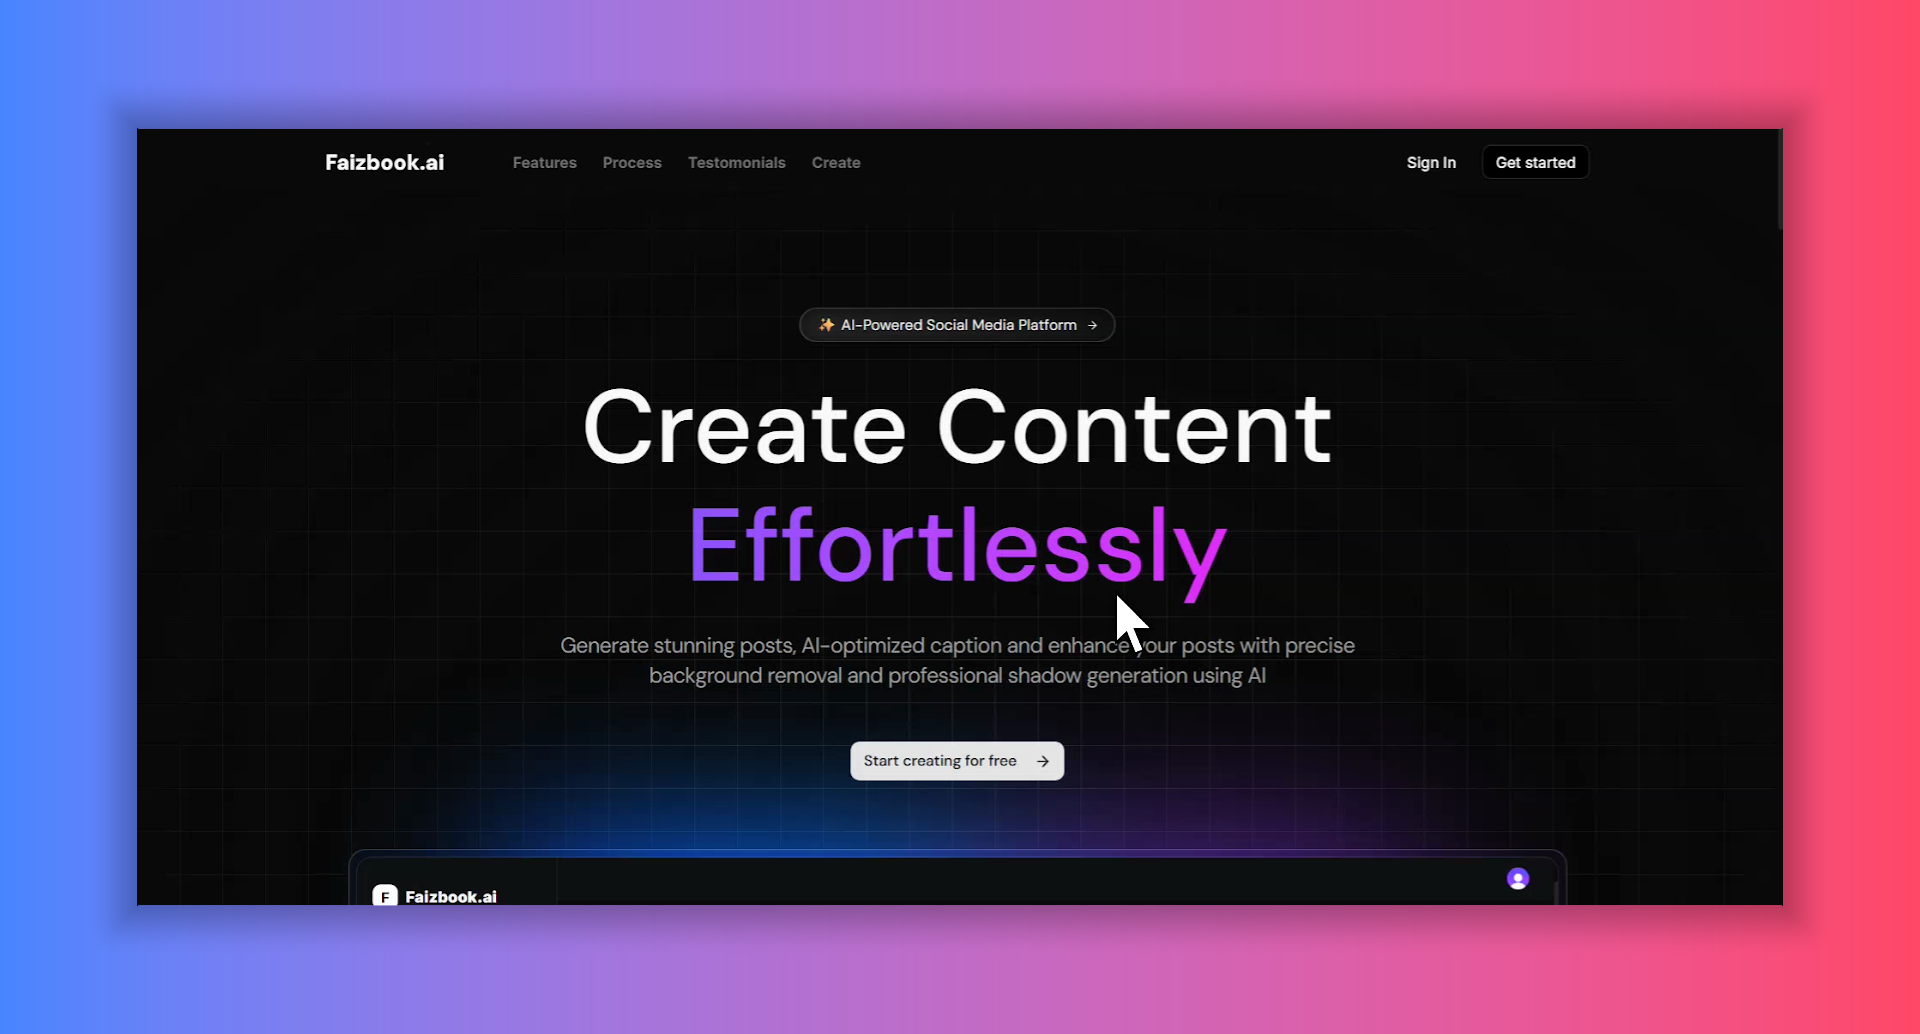
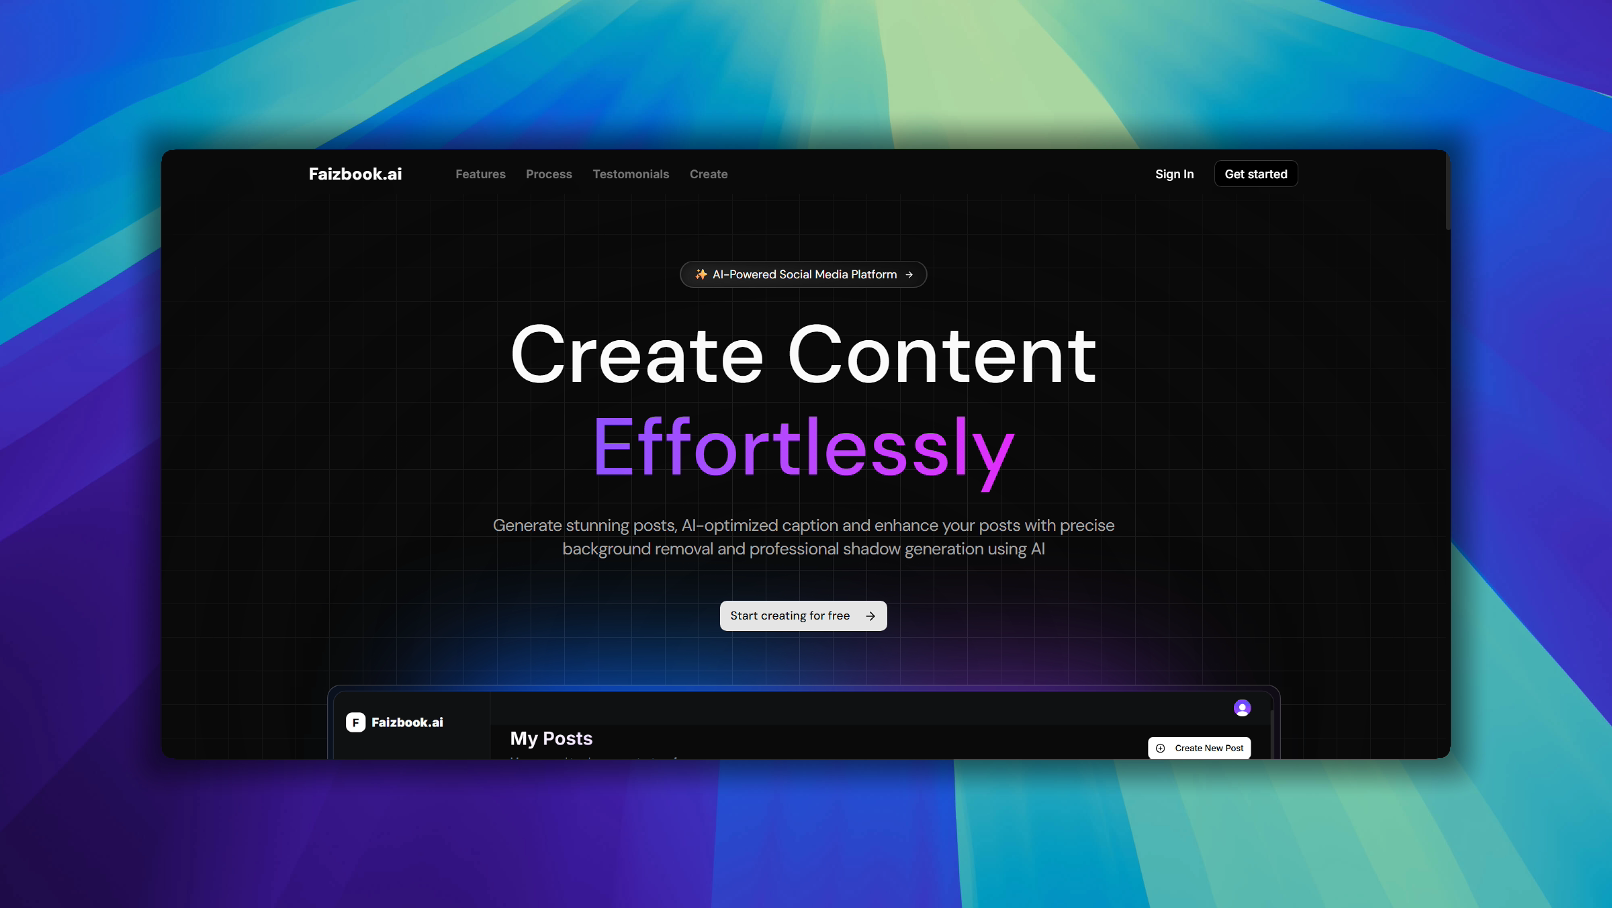
.

diff --git a/src/lib/data.ts b/src/lib/data.ts
@@ -9,10 +9,11 @@ import {
 import { FaAws, FaLinkedin } from "react-icons/fa";
 import type { IconType } from "react-icons";
 
-import zenshot from "@/assets/zenshot.jpg";
-import tryscribe from "@/assets/tryscribe.jpg";
-import synote from "@/assets/synote.jpg";
-import serein from "@/assets/serein.jpg";
+import xpense from "@/assets/Xpense.png";
+import faizbook from "@/assets/faizbook.png";
+import docschat from "@/assets/docschat.png";
+import connectify from "@/assets/connectify.png";
+import attendx from "@/assets/Attendx.png";
 
 
 export const experience = [
@@ -23,48 +24,59 @@ export const experience = [
 
 export const projects = [
   {
-    id: "zenshot",
-    name: "ZenShot",
-    desc: "A modern editor for builders to create viral visuals and share progress.",
-    img: zenshot ,
+    id: "attendx",
+    name: "AttendX",
+    desc: "An AI-powered attendance platform that automates student tracking using computer vision and voice recognition.",
+    img: attendx,
     longDesc:
-      "A screenshot editor for founders to visualize progress, MRR and milestones using glass themes, remix layouts, and high res exports. Dockerized app & setup CI/CD workflow.",
-    tags: ["Nextjs", "Supabase", "Docker", "CI/CD", "Cloudflare"],
-    github: "https://github.com/Shreyas-29",
-    live: "https://zenshot.app/",
+      "An AI-powered attendance platform that automates student tracking using computer vision and voice recognition.",
+    tags: ["Python", "Scikit-learn", "Streamlit", "Supabase", "Computer Vision"],
+    github: "https://github.com/faizjamadar18/AttendX",
+    live: "https://attendx-landing.vercel.app",
   },
   {
-    id: "tryscribe",
-    name: "TryScribe",
-    desc: "A modern AI workspace with tools designed to save time and reduce effort.",
-    img: tryscribe,
+    id: "xpense",
+    name: "XpenseFlow",
+    desc: "An intelligent finance platform that simplifies expense tracking, budgeting, and spending analysis with AI.",
+    img: xpense,
     longDesc:
-      "A modern AI workspace bundling writing, summarization, and research tools designed for productivity. Built with a polished UI and shipped to 130+ active users.",
-    tags: ["Nextjs", "TypeScript", "OpenAI", "Stripe", "Vercel"],
-    github: "https://github.com/Shreyas-29",
-    live: "https://tryscribe.in/",
+      "An intelligent finance platform that simplifies expense tracking, budgeting, and spending analysis with AI.",
+    tags: ["Next.js", "Clerk", "Supabase", "Prisma", "Gemini API"],
+    github: "https://github.com/faizjamadar18/Xpense-flow",
+    live: "https://xpenseflow.vercel.app",
   },
   {
-    id: "synote",
-    name: "Synote",
-    desc: "An AI note-taking app that generates notes and summaries using Gemini.",
-    img: synote,
+    id: "docschat",
+    name: "DocsChat",
+    desc: "A RAG-powered document assistant that transforms PDFs into accurate and interactive AI conversations.",
+    img: docschat,
     longDesc:
-      "An AI note-taking app that auto-generates structured notes and concise summaries using Gemini, with a clean writing surface and quick capture flow.",
-    tags: ["Nextjs", "Gemini", "Prisma", "PostgreSQL"],
-    github: "https://github.com/Shreyas-29",
-    live: "#",
+      "A RAG-powered document assistant that transforms PDFs into accurate and interactive AI conversations.",
+    tags: ["Next.js", "FastAPI", "LangChain", "ChromaDB", "Gemini", "RAG"],
+    github: "https://github.com/faizjamadar18/DocsChat",
+    live: "https://docschats.vercel.app",
   },
   {
-    id: "serein",
-    name: "Serein",
-    desc: "An editorial style habit tracking landing page focused on calm design.",
-    img: serein,
+    id: "faizbook",
+    name: "Faizbook",
+    desc: "A full-featured social media platform for creating content, building communities, and sharing experiences.",
+    img: faizbook,
     longDesc:
-      "An editorial style habit tracking landing page focused on calm design, refined typography, and a quiet visual rhythm that invites daily use.",
-    tags: ["Nextjs", "Tailwind", "Motion"],
-    github: "https://github.com/Shreyas-29",
-    live: "#",
+      "A full-featured social media platform for creating content, building communities, and sharing experiences.",
+    tags: ["Next.js", "Convex", "Gemini API", "ImageKit.io"],
+    github: "https://github.com/faizjamadar18/AI-content-creator-by-Faiz",
+    live: "https://faizbookx.vercel.app",
+  },
+  {
+    id: "connectify",
+    name: "Connectify",
+    desc: "A real-time communication platform for messaging, video calls, and seamless media sharing.",
+    img: connectify,
+    longDesc:
+      "A real-time communication platform for messaging, video calls, and seamless media sharing.",
+    tags: ["React", "Node.js", "MongoDB", "Socket.IO", "WebRTC", "JWT"],
+    github: "https://github.com/faizjamadar18/Connectify",
+    live: "https://connectifyx.vercel.app",
   },
 ];
 
@@ -122,7 +134,7 @@ export const songs = [
   },
   {
     title: "Die With A Smile",
-    artist: "Lady Gaga, Bruno Mars",
+    artist: "Lady Gaga, Bruno",
     url: "https://open.spotify.com/track/27WebcZ0fwAcdBxcx98b89",
     cover: "https://i.scdn.co/image/ab67616d0000b27382ea2e9e1858aa012c57cd45",
     color: "#4b90e2", // Blueish from the cover

diff --git a/src/components/home/ProjectCard.tsx b/src/components/home/ProjectCard.tsx
@@ -55,7 +55,7 @@ export function ProjectCard({ project }: { project: Project; index?: number }) {
           alt={project.name}
           loading="lazy"
           style={{ borderRadius: 8 }}
-          className="h-20 w-32 shrink-0 object-cover"
+          className="h-20 w-32 shrink-0 object-contain"
         />
         <motion.div className="min-w-0" layoutId={`project-text-${project.id}`}>
           <h3 className="text-base font-semibold text-foreground">
@@ -95,7 +95,7 @@ export function ProjectCard({ project }: { project: Project; index?: number }) {
                 src={project.img}
                 alt={project.name}
                 style={{ borderRadius: 0 }}
-                className="h-62 w-full object-cover"
+                className="h-auto max-h-80 w-full object-contain bg-muted"
                 transition={springTransition}
               />
 